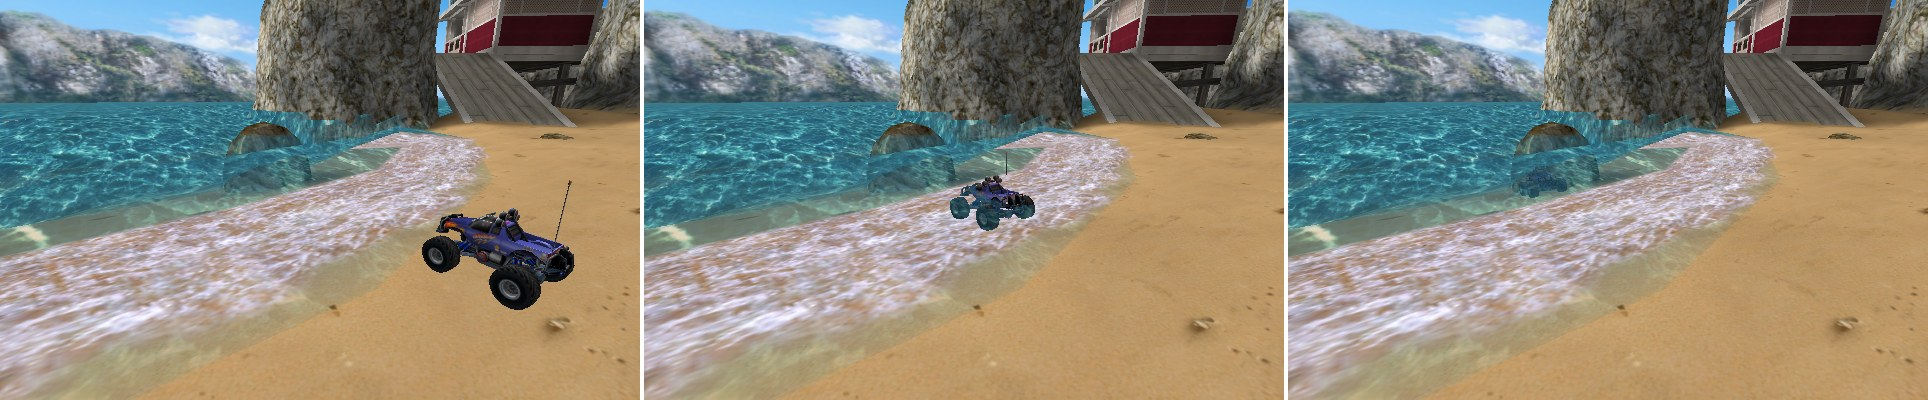
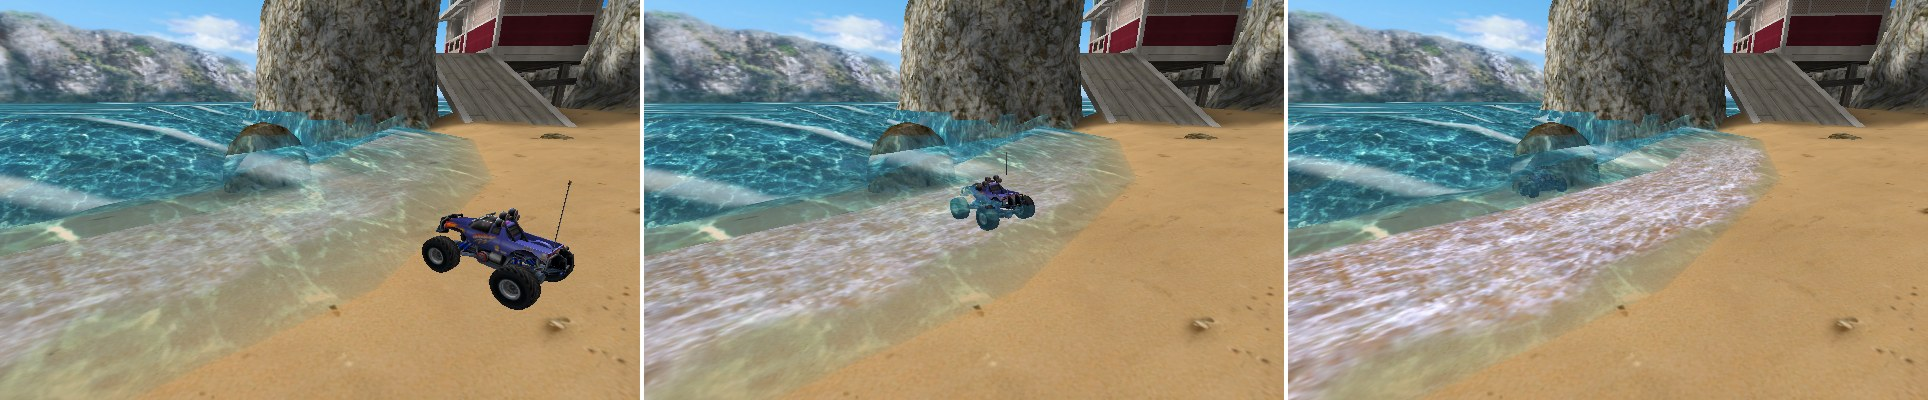
Water: waves with white crests, and foam washing up the beach
Push constants carry the time (the game counts it, rcshot takes
RCSHOT_TIME or the drive time). The sea gets two directional waves after
WLOD_beach_1_more1.ini (angle/angle2, amp/amp2, length2; wavelengths and
speeds picked by eye, the original's code is not readable), computed per
pixel because the sea's vertices are metres apart: they light the surface,
whiten the crests and add sun glitter, and die out towards the shore. The
sea texture drifts (texSpeedMin/Max). The shore foam washes up and back
every 4 s, out of step along the shore, its mask sliding over 32% of the
strip and its opacity going 36..255 (waterLOD_coast.ini).

Claude-Session: https://claude.ai/code/session_01JbWGBD8LCn6gAtr5cxsygP

Changed region(s): [[0.6535, 0.24, 0.9336, 1.0], [0.3112, 0.24, 0.5913, 0.99], [0.0, 0.24, 0.249, 1.0]]

diff --git a/tools/rcshot.cpp b/tools/rcshot.cpp
@@ -8,6 +8,7 @@
 //   env RCSHOT_DRIVE=<seconds> drives the car (physics) with full throttle first, RCSHOT_STEER=<-1..1> steering
 //   (positive = left) for the last half of that time, RCSHOT_JUMP=<seconds> jumps at that moment,
 //   RCSHOT_BOOST=1 holds the boost, RCSHOT_START="x z yaw" puts the car somewhere else first.
+//   env RCSHOT_TIME=<seconds> is the moment of the water animation (default: the drive time, else 0).
 
 #include <Tempest/Device>
 #include <Tempest/Fence>
@@ -117,6 +118,10 @@ int main(int argc, const char** argv) {
     push.cameraPos[3] = 250.f;
     push.sunDir[0] = 0.4f; push.sunDir[1] = 0.8f; push.sunDir[2] = 0.3f;
     push.sunDir[3] = 1.0f;
+    if(const char* t = std::getenv("RCSHOT_TIME"))
+      push.time = float(std::atof(t));
+    else if(const char* d = std::getenv("RCSHOT_DRIVE"))
+      push.time = float(std::atof(d));
 
     CommandBuffer cmd;
     {

diff --git a/game/mainwindow.cpp b/game/mainwindow.cpp
@@ -234,6 +234,7 @@ void MainWindow::render() {
     const uint64_t now = Application::tickCount();
     const float    dt  = float(now-lastTick)/1000.f;
     lastTick = now;
+    time    += std::min(dt,0.1f);
     tick(std::min(dt,0.1f));
 
     frameId = uint8_t((frameId+1)%MaxFramesInFlight);
@@ -250,6 +251,7 @@ void MainWindow::render() {
     push.cameraPos[3] = 250.f;                 // fog distance
     push.sunDir[0] = 0.4f; push.sunDir[1] = 0.8f; push.sunDir[2] = 0.3f;
     push.sunDir[3] = 1.0f;                     // lightmap scale
+    push.time      = time;
 
     {
       auto enc = cmd.startEncoding(device);

diff --git a/game/world/levelmesh.h b/game/world/levelmesh.h
@@ -51,7 +51,8 @@ class LevelMesh {
       float    cameraPos[4];   // xyz, w = fog distance
       float    sunDir[4];      // xyz, w = lightmap scale
       uint32_t flags = 0;
-      uint32_t padding[3] = {};
+      float    time = 0;       // seconds, animates the water and the foam
+      uint32_t padding[2] = {};
       };
 
     struct Stats {

diff --git a/game/mainwindow.h b/game/mainwindow.h
@@ -73,5 +73,6 @@ class MainWindow : public Tempest::Window {
     float                   speed    = 8.f; // m/s
     uint64_t                lastTick = 0;
     float                   fpsTime  = 0;
+    float                   time     = 0; // seconds since start, animates the water
     uint32_t                fpsCount = 0;
   };

diff --git a/README.md b/README.md
@@ -144,6 +144,7 @@ RCSHOT_DRIVE=3 RCSHOT_STEER=1 rcshot ...                        # najpierw 3 s j
 RCSHOT_DRIVE=2 RCSHOT_JUMP=1.6 rcshot ...                       # skok w 1,6 s, zdjęcie w 2 s
 RCSHOT_DRIVE=3 RCSHOT_BOOST=1 rcshot ...                        # z dopalaczem
 RCSHOT_START="-8 -41 90" RCSHOT_DRIVE=1.6 rcshot ...            # auto najpierw w punkcie x z, obrócone o yaw (tu: do morza)
+RCSHOT_TIME=2.5 rcshot ...                                       # chwila animacji wody (fale, piana)
 ```
 
 ## Struktura
@@ -216,7 +217,11 @@ lib/Tempest     silnik (submoduł git)
   głębokości nad dnem z kolizji (pełne krycie od 0,8 m; jednostka `distAlphaClampMax` to nasze zgadywanie), bez fal.
   Piana przy brzegu to ściany `coast*` z teksturą `coast_base` i maską `ALP1` `coast` bez `BAS2`: maska to
   przezroczystość piany (falista krawędź). W oryginale piana przesuwa się po plaży (`waterLOD_coast.ini`:
-  `HeightOn/HeightOff`, `ScrollVel`, `AlphaMin` 36), u nas stoi.
+  `HeightOn/HeightOff`, `ScrollVel`, `AlphaMin` 36); u nas co 4 s podchodzi na plażę i cofa się (maska przesuwa się
+  o 32% paska, przezroczystość 36…255), przesunięta w fazie wzdłuż brzegu.
+- Fale: dwie fale kierunkowe wg `WLOD_beach_1_more1.ini` (`angle` 6 i `angle2` 4 w krokach 10°, `amp` 16 i `amp2` 25
+  czytane jako pół centymetra, `length2` 161 cm), liczone na piksel (wierzchołki morza są co kilka metrów), z białymi
+  grzbietami i odblaskiem słońca; tekstura morza płynie (`texSpeedMin/Max`). Długości i prędkości fal dobrane na oko.
 - Brzeg: tafla morza jest płaska (beach_1: 0 m) i kończy się w powietrzu tam, gdzie plaża leży niżej (piasek przy
   brzegu na -0,31 m, tam leży też piana), a na zrzutach z oryginału woda schodzi do poziomu plaży. Oryginał ma do tego
   suwaki `magnetOffset`/`magnetRadius`/`clampY*` w `WLOD_*.ini`, ale ich kod w `RCCars.exe` jest zaszyfrowany
